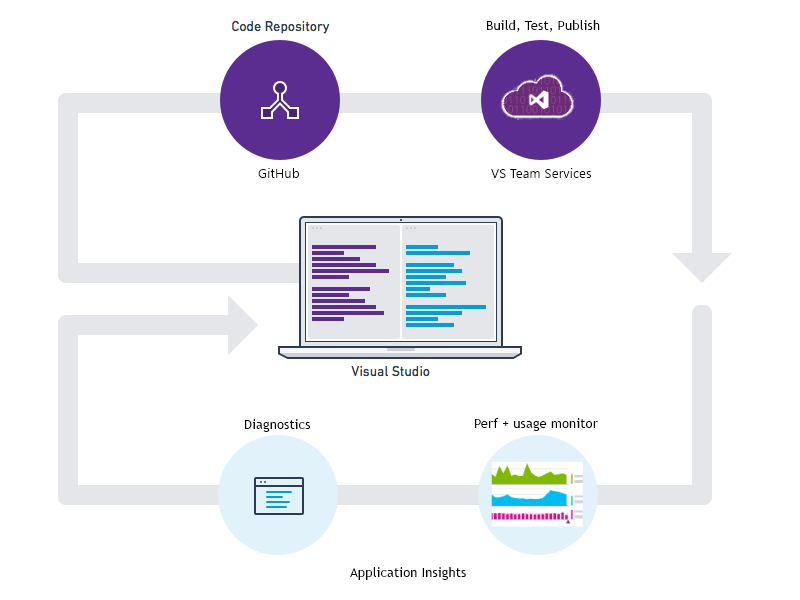
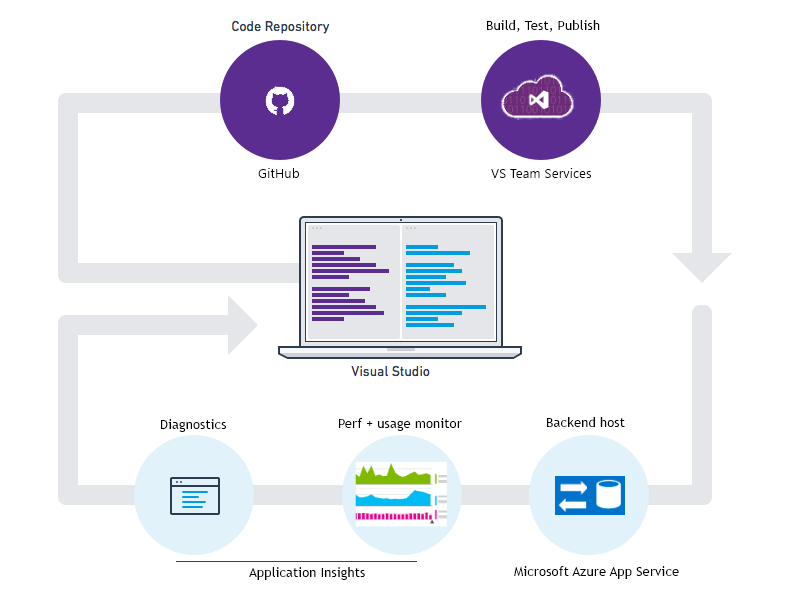
more devops

Changed region(s): [[0.1562, 0.69, 0.8438, 0.96], [0.3125, 0.12, 0.375, 0.21]]

diff --git a/Docs/RefDocs/02-TopLevel/02-03-04-devops.md b/Docs/RefDocs/02-TopLevel/02-03-04-devops.md
@@ -1,8 +1,8 @@
 # Primer
 
-## Distribution and app telemetry
+## Build, measure, learn
 
-We operate a rapid devOps cycle: we build the app, distribute it, get feedback about how it performs and what users do with it, and then use that knowledge to feed in to further development cycles. To monitor usage and performance, we get telemetry from the client and server components of the application, as well as feedback from the users themselves. 
+We operate a rapid [DevOps](https://en.wikipedia.org/wiki/DevOps) cycle: we build and distribute the app; get feedback about how it performs and what users do with it; and then use that knowledge to feed in to further development cycles. To monitor usage and performance, we get telemetry from the client and server components of the application, as well as feedback from the users themselves. 
 
 Some releases have restricted distribution to designated testers. We also organise 'flighting' (tests of new features with restricted audiences), and A|B testing (parallel tests of alternative UX).
 
@@ -25,12 +25,14 @@ This is the set of tools we use. They work well as an integrated kit, but they c
 
 Here we'll focus on the build, distribution and feedback/analytics side of the cycle.
 
+BTW, these tools are all free for the basic versions.
+
+
+### Build, distribution and feedback - device software
+
+The mobile app can run on several devices. 
+
 Every code commit can trigger a build, and deploy the app to test users. Crash data and user feedback with screenshots are directly collected when running the app, and fed back into work items for the next cycle. Usage telemetry is also collected.
-
-BTW, these tools are all free (for smaller volumes of analytics).
-
-
-## Build, distribution and feedback - client apps
 
 ![](./media/devops-020.png)
 
@@ -40,7 +42,9 @@ BTW, these tools are all free (for smaller volumes of analytics).
 * **Feedback:** Once the client app is installed on a test user’s device, [HockeySDK](http://hockeyapp.net/blog/2015/11/18/introducing-mobile-devops.html) collects usage data, **crash reports**, and user feedback with screenshots. Usage data includes counts of daily and monthly active users, new users, sessions, and crash impacted users.
 * It creates work items/issues for each new crash group.
 
-## Build, deployment and monitoring - server app
+
+
+### Build, deployment and monitoring - server app
 
 The web backend for the mobile app is an ASP.NET 4.5.1 application in C#.
 
@@ -49,7 +53,65 @@ The web backend for the mobile app is an ASP.NET 4.5.1 application in C#.
 
 
 * **Code:** Developed with Visual Studio 2013, with code stored on GitHub. Visual Studio is used to control commit, build and publish, with local and remote debugging.
-* **Build and deploy:** [Continuous delivery in VS Team Services](https://azure.microsoft.com/documentation/articles/cloud-services-continuous-delivery-use-vso/) triggers republication on a successful build and test.
+* **Build, test and publish:** [Continuous delivery in VS Team Services](https://azure.microsoft.com/documentation/articles/cloud-services-continuous-delivery-use-vso/) triggers republication on a successful build and test.
+* **Backend host:** [Azure Mobile App Service](https://azure.microsoft.com/documentation/articles/app-service-mobile-value-prop/) provides the infrastructure for web hosting, push notifications, and authentication.
 * **Analytics:** [Application Insights](https://azure.microsoft.com/documentation/articles/app-insights-overview/) monitors the performance and usage of the live application, and provides powerful diagnostic facilities for any issues that arise.
+
+
+## Device app distribution and feedback
+
+
+## Device crash and usage analytics
+
+
+## Server app build and publication
+
+
+
+## Server performance analytics
+
+The Azure web host automatically provides us with some performance data as soon as we set up the app, such as network, disk, CPU usage. These help us decide if we need to scale up, asking Azure to assign us more resources. 
+
+In addition, we use [Application Insights](https://azure.microsoft.com/documentation/articles/app-insights-overview/) to monitor the performance and usage of the app. It also provides valuable diagnostic search tools if any problems turn up, and will send us alerts if there are sudden suspicious rises in exception or failed request rates. 
+
+
+![](./media/devops-050.png)
+
+To [set up Application Insights](https://azure.microsoft.com/documentation/articles/app-insights-asp-net/), we install the SDK in the server project. It's more or less a one-click operation in Visual Studio. (Well, maybe two clicks. Easy, anyway.) The SDK's role is to count and time incoming HTTP requests, do the same with calls to external dependencies such as the database and REST calls, and report exceptions. We can also write our own telemetry to monitor anything we want, either diagnostic traces or usage statistics. 
+
+All this telemetry is sent to the Application Insights service, which creates performance and [usage dashboards](https://azure.microsoft.com/documentation/articles/app-insights-portal/) and provides diagnostic tools. At the same time as installing the SDK, the configuration tool sets up an Application Insights resource in Azure. This is where we go to [look at the charts](https://azure.microsoft.com/documentation/articles/app-insights-metrics-explorer/) or do [diagnostic searches](https://azure.microsoft.com/documentation/articles/app-insights-diagnostic-search/) when the app is live.
+
+![](./media/devops-060.png)
+
+### Performance tuning
+
+One of the key charts in Application Insights shows response times together with request counts over the past day (or week, or hour, at your choice). As well as telling you how much use your app is getting, it shows you how your app performs under load. If there's a sudden rise in the response time as request rate goes over a particular figure, then you'll know you've hit a bottleneck somewhere. It might be as simple as not enough CPU; or it might be that one of your dependencies is letting you down.
+
+There's a set of charts that shows the rates and respinse times for calls from your app to external dependencies such as databases or REST APIs. If the rise in your app's response time is accompanied by a rise in response times to calls to another component, then you know that your problem is with that dependency - not inside your app.
+
+### Alerts
+
+Application Insights automatically sends you alerts if your app is responding slowly to HTTP requests. (You can also manually set up alerts to be sent when various metrics cross a threshold.) This helps you respond quickly if there's a sudden surge in interest in your app - or if your most recent release turns out to have some issues.
+
+You can also get alerts on rates of failed requests and on exceptions. Every busy app has a background rate of a few of these, so you won't get a mail for every individual exception (unless you really want that); but Application Insights looks at the rate of these occurrences and alerts you if the rate rises. 
+
+### Diagnostics
+
+When you do have a problem, the first thing you want to do is look at specific events and find out more about them.
+
+Application Insights comes with some particularly powerful search tools that let you make SQL-like queries over the logged requests, exceptions, and other events. For example, there's a pattern-finding query that can find out if failed requests had any particular combination of properties, such as a particular client type or location.
+
+### Usage 
+
+We'd like to know what our users are doing with the app. HockeyApp gives us a lot of that data straight from the devices; but we can also code up specialized measurements in the server, and send them as telemetry to Application Insights. 
+
+For example, we can track the numbers of users achieving different levels of competence, and have those segmented and charted on the dashboard.
+
+### Display
+
+Application Insights has its own good dashboard and charting features, but it can also output to Power BI or other tools. This lets you combine server analytics with HockeyApp and other monitoring data.
+
+
+
 
 
